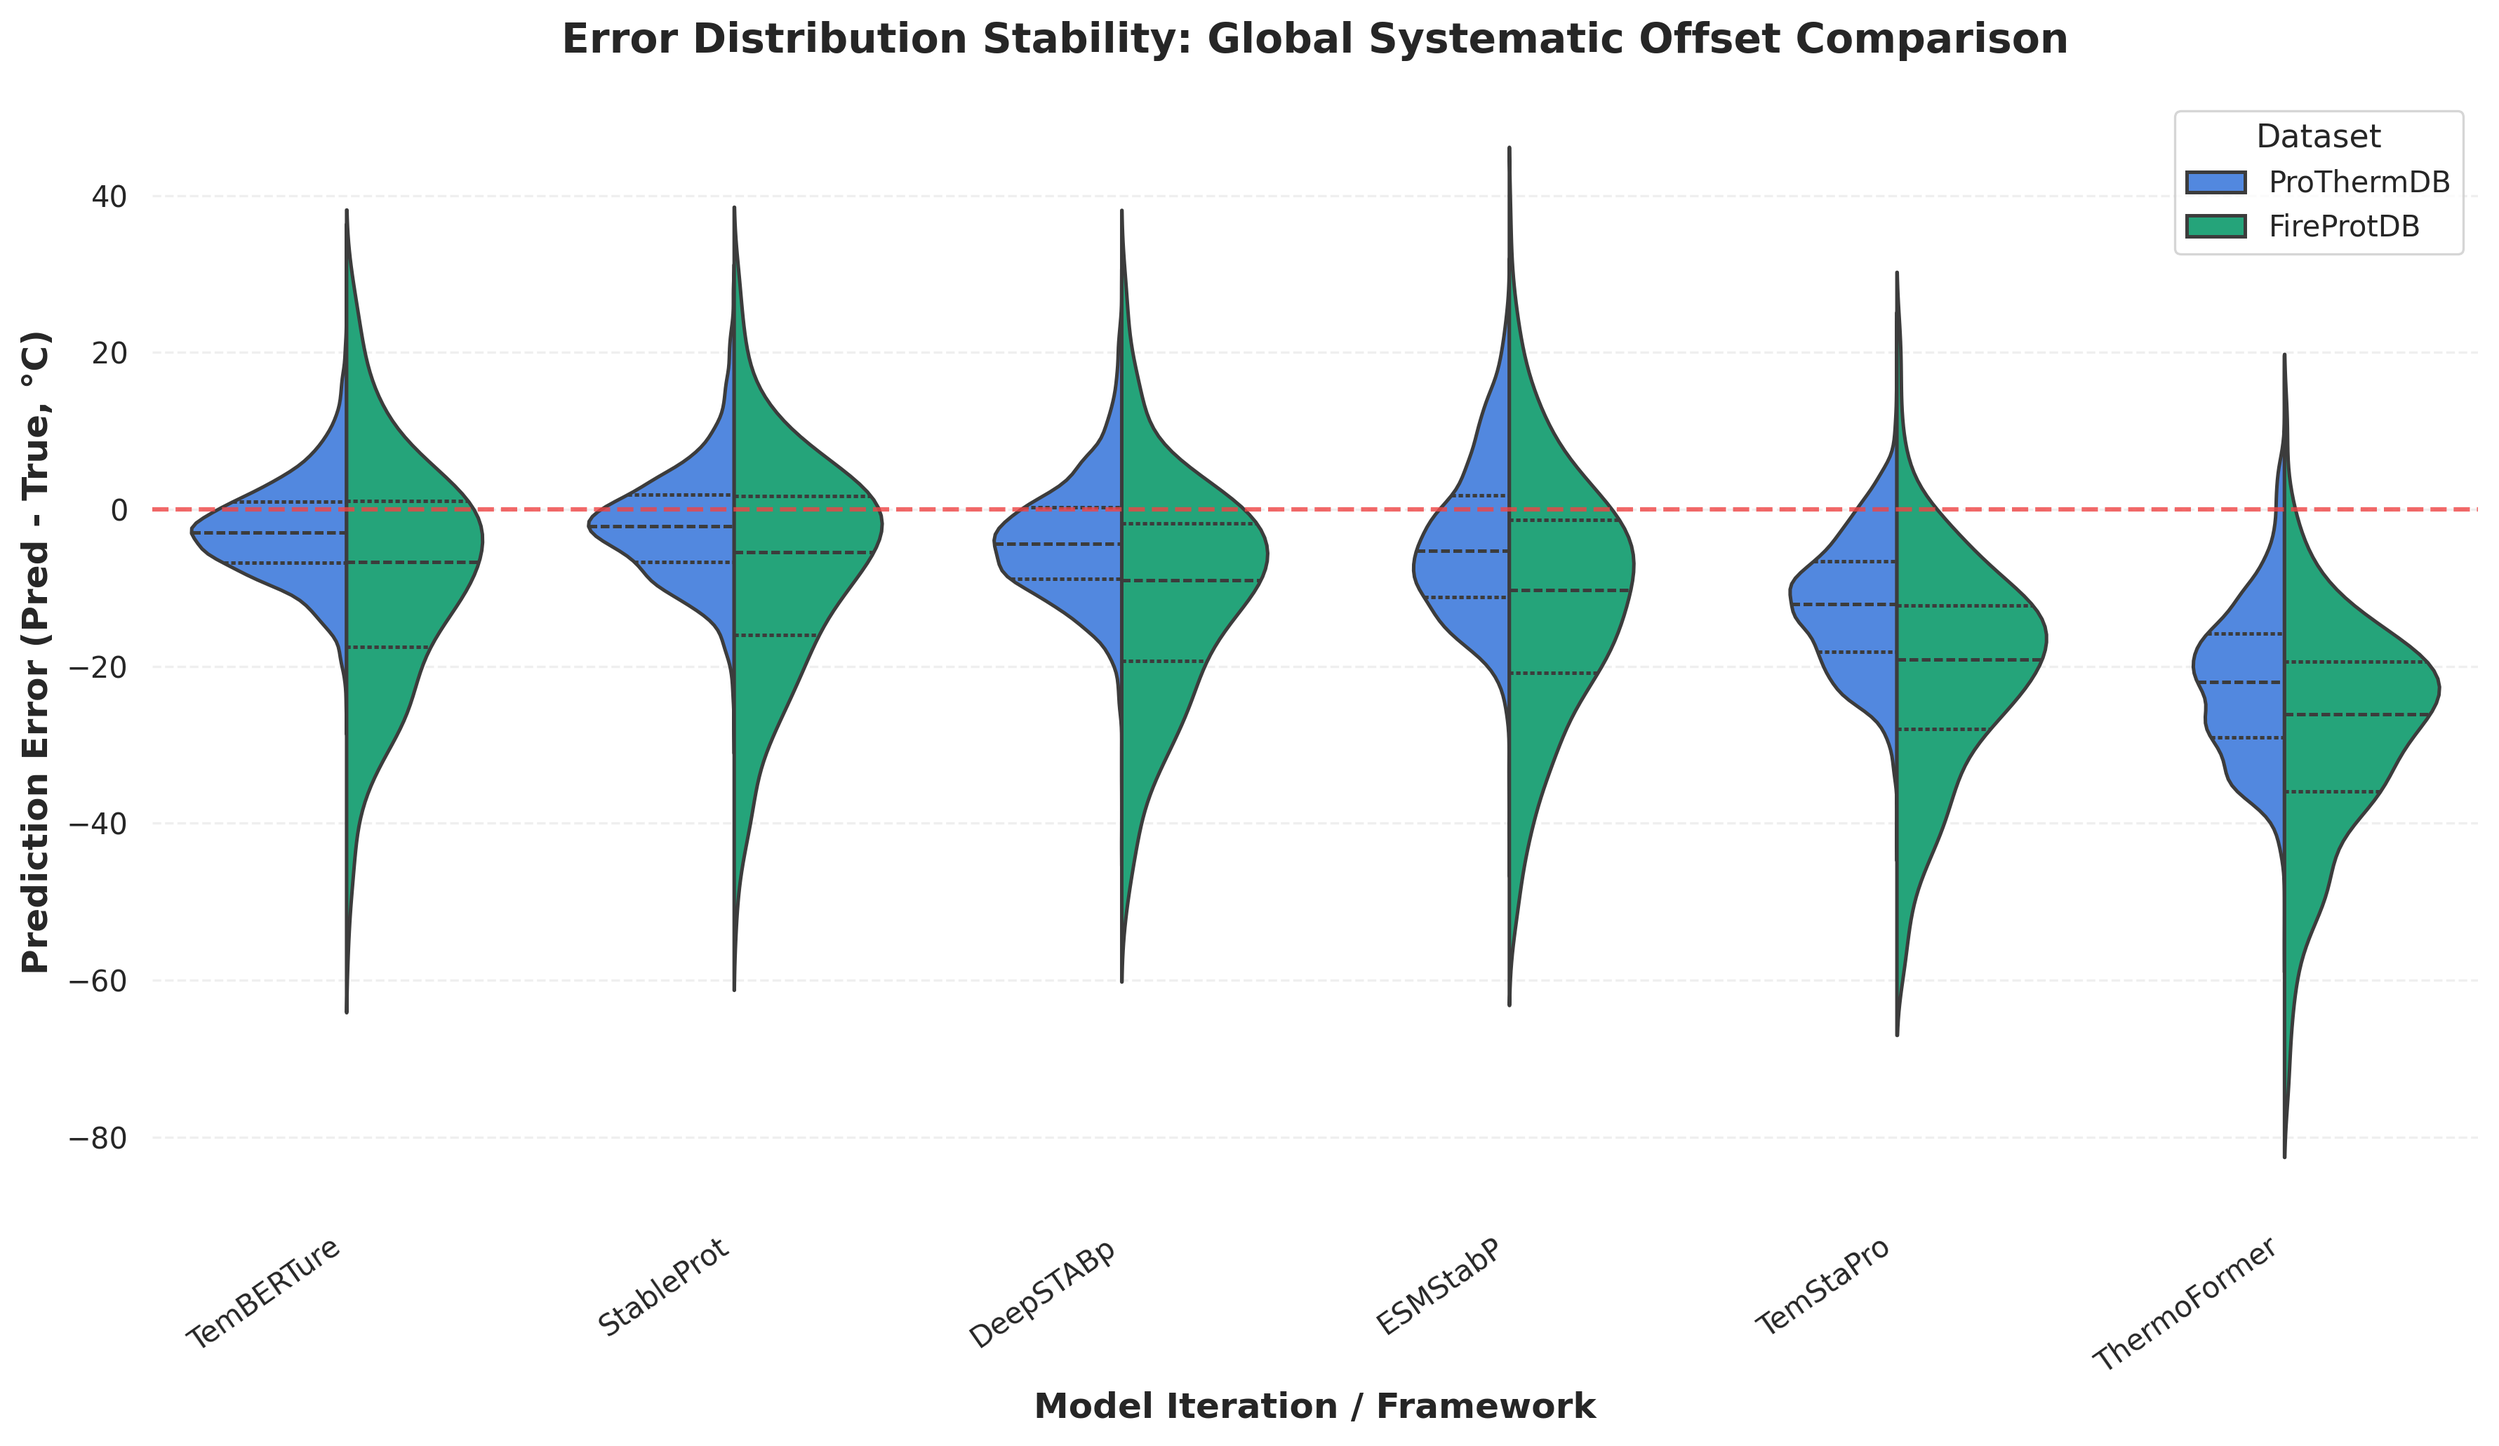
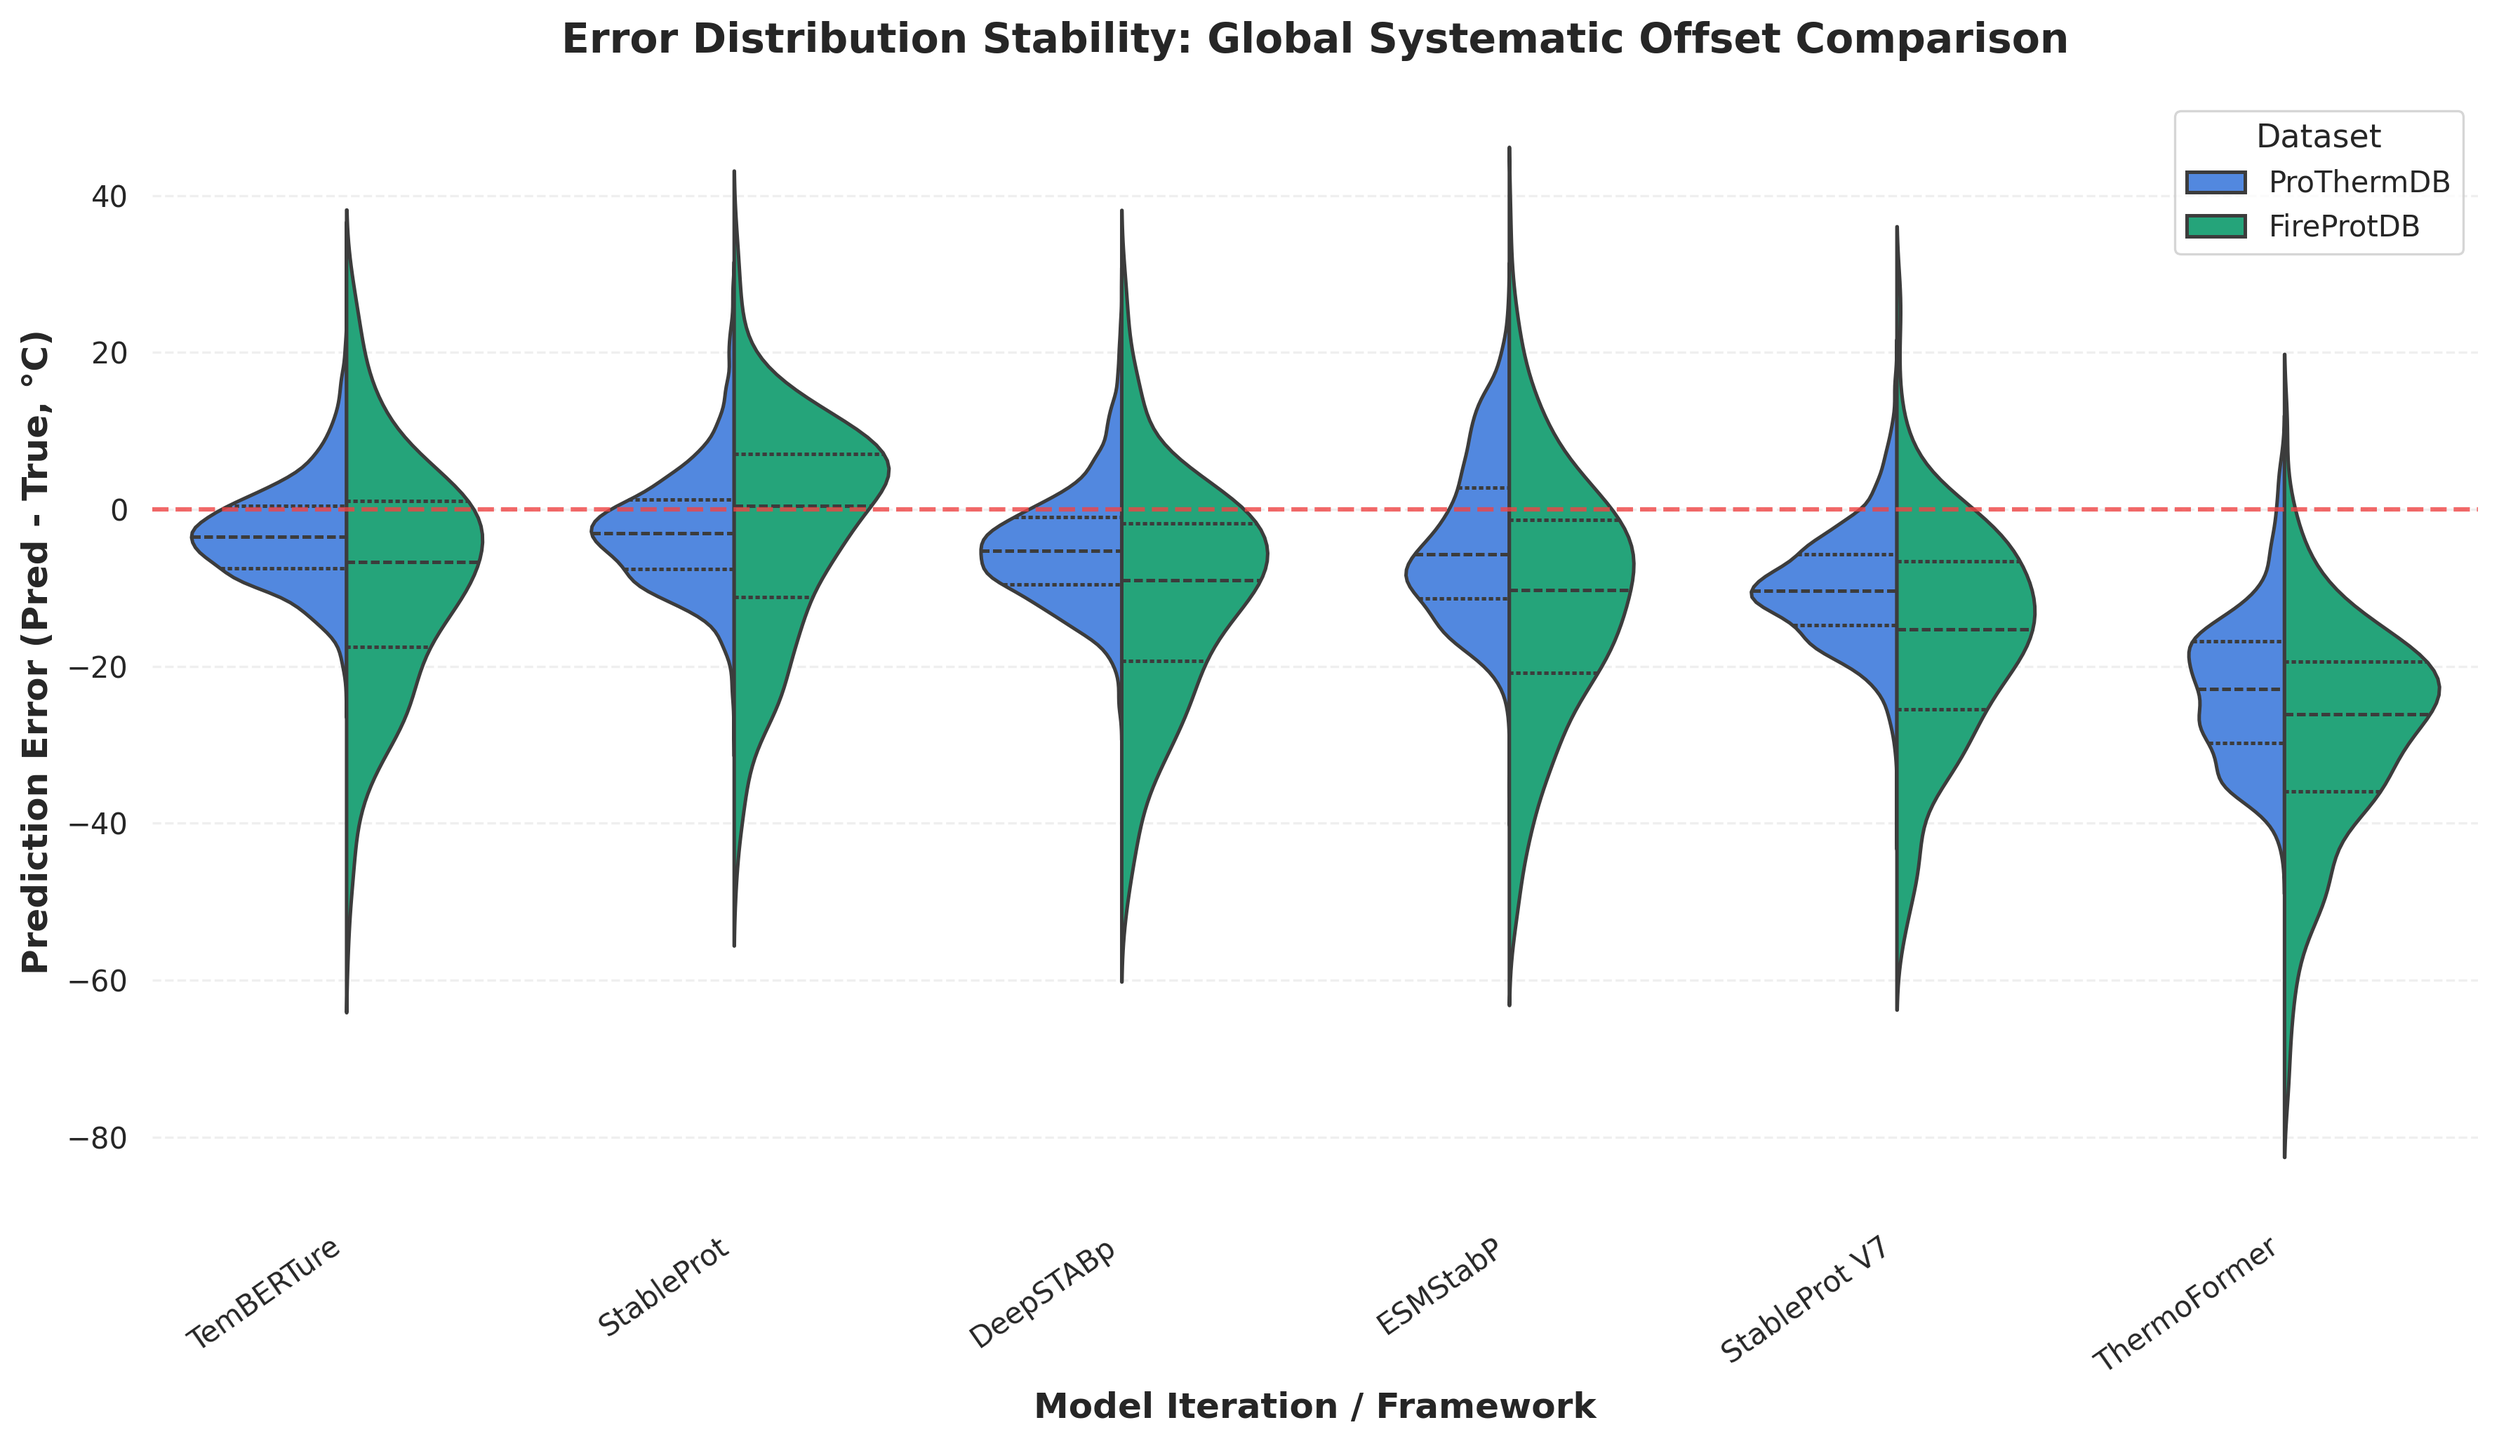
fix: resolve all critical audit bugs by implementing V7 ensemble inference, alternating task optimization, and corrected evaluation protocols.

diff --git a/experiments/src/eval/evaluate_all_models_protherm.py b/experiments/src/eval/evaluate_all_models_protherm.py
@@ -226,6 +226,8 @@ def main():
 
     protherm_seqs = []
     y_true_list = []
+    kept_indices = []
+    matching_idx = 0
     for record in SeqIO.parse(protherm_fasta, 'fasta'):
         seq = str(record.seq)
         uid = record.id.split('|')[0]
@@ -233,13 +235,15 @@ def main():
             if seq.upper() not in train_seqs_set:
                 protherm_seqs.append(seq)
                 y_true_list.append(protherm_dict[uid])
+                kept_indices.append(matching_idx)
+            matching_idx += 1
             
     y_true = np.array(y_true_list)
     print(f"Loaded {len(protherm_seqs)} ProThermDB validation sequences (decontaminated against V7 train).")
     
     # Load ProtT5 embeddings
     d_prott5 = torch.load(prott5_data_path, map_location='cpu', weights_only=False)
-    x_prott5 = d_prott5['test_tm']['embeddings'].to(device)
+    x_prott5 = d_prott5['test_tm']['embeddings'].to(device)[kept_indices]
     
     # Load and map ESM-2 embeddings
     print("Loading and mapping ESM-2 embeddings...")
@@ -419,7 +423,7 @@ def main():
     print("Evaluating V7 SaProt...")
     protherm_saprot_path = os.path.join(PROJECT_ROOT, "data/embeddings/saprot_1.3b/protherm_embeddings.pt")
     if os.path.exists(protherm_saprot_path):
-        x_saprot_v7 = torch.load(protherm_saprot_path, map_location=device, weights_only=False).float()
+        x_saprot_v7 = torch.load(protherm_saprot_path, map_location=device, weights_only=False).float()[kept_indices]
         print(f"  Loaded ProThermDB SaProt embeddings: {x_saprot_v7.shape}")
 
         # Import MultiHeadSaProtV7 dynamically
@@ -451,12 +455,12 @@ def main():
     if os.path.exists(baseline_path):
         print("Loading baseline predictions...")
         baselines = torch.load(baseline_path, map_location='cpu', weights_only=False)
-        results['TemBERTure'] = {'y_pred': baselines['protherm']['temberture'], 'type': 'Continuous Proxy'}
-        results['ESMStabP'] = {'y_pred': baselines['protherm']['esmstabp'], 'type': 'Continuous Proxy'}
+        results['TemBERTure'] = {'y_pred': np.array(baselines['protherm']['temberture'])[kept_indices], 'type': 'Continuous Proxy'}
+        results['ESMStabP'] = {'y_pred': np.array(baselines['protherm']['esmstabp'])[kept_indices], 'type': 'Continuous Proxy'}
         if 'deepstabp' in baselines['protherm']:
-            results['DeepSTABp'] = {'y_pred': baselines['protherm']['deepstabp'], 'type': 'Continuous Proxy'}
+            results['DeepSTABp'] = {'y_pred': np.array(baselines['protherm']['deepstabp'])[kept_indices], 'type': 'Continuous Proxy'}
         if 'thermoformer' in baselines['protherm']:
-            results['ThermoFormer'] = {'y_pred': baselines['protherm']['thermoformer'], 'type': 'Continuous Proxy'}
+            results['ThermoFormer'] = {'y_pred': np.array(baselines['protherm']['thermoformer'])[kept_indices], 'type': 'Continuous Proxy'}
     else:
         print("WARNING: Baseline predictions file missing.")
 

diff --git a/experiments/src/eval/plot_evaluation_results.py b/experiments/src/eval/plot_evaluation_results.py
@@ -43,7 +43,7 @@ def plot_mae_comparison(protherm_data, fireprot_data, out_dir):
     models = list(protherm_data['metrics'].keys())
     
     # Only show StableProt + external baselines
-    show_models = ['StableProt', 'TemStaPro', 'TemBERTure', 'ESMStabP', 'DeepSTABp', 'ThermoFormer']
+    show_models = ['StableProt', 'StableProt V7', 'TemStaPro', 'TemBERTure', 'ESMStabP', 'DeepSTABp', 'ThermoFormer']
     common_models = [m for m in show_models if m in protherm_data['metrics'] and m in fireprot_data['metrics']]
     
     # Sort models by ProThermDB MAE (ascending)
@@ -100,7 +100,7 @@ def plot_scatter_grids(data, dataset_name, out_dir):
     y_true = data['y_true']
     
     # Only show StableProt + external baselines
-    key_models = ['StableProt', 'TemStaPro', 'TemBERTure', 'ESMStabP', 'DeepSTABp', 'ThermoFormer']
+    key_models = ['StableProt', 'StableProt V7', 'TemStaPro', 'TemBERTure', 'ESMStabP', 'DeepSTABp', 'ThermoFormer']
     display_models = [m for m in key_models if m in predictions]
 
     
@@ -157,7 +157,7 @@ def plot_error_violins(protherm_data, fireprot_data, out_dir):
     Generate violin plots of error distributions.
     """
     # Only show StableProt + external baselines
-    show_models = ['StableProt', 'TemStaPro', 'TemBERTure', 'ESMStabP', 'DeepSTABp', 'ThermoFormer']
+    show_models = ['StableProt', 'StableProt V7', 'TemStaPro', 'TemBERTure', 'ESMStabP', 'DeepSTABp', 'ThermoFormer']
     common_models = [m for m in show_models if m in protherm_data['metrics'] and m in fireprot_data['metrics']]
     
     common_models = sorted(common_models, key=lambda m: protherm_data['metrics'][m]['mae'])

diff --git a/experiments/src/eval/evaluate_ogt.py b/experiments/src/eval/evaluate_ogt.py
@@ -46,7 +46,7 @@ def main():
     
     # 1. Load Baselines
     if BASELINE_FILE.exists():
-        baselines = torch.load(BASELINE_FILE, map_location='cpu')
+        baselines = torch.load(BASELINE_FILE, map_location='cpu', weights_only=False)
         for k, v in baselines.items():
             if k != 'y_true':
                 predictions[k] = v
@@ -76,7 +76,7 @@ def main():
             input_dim=1280, hidden1=CONFIG['hidden1'], hidden2=CONFIG['hidden2'],
             dropout1=CONFIG['dropout1'], dropout2=CONFIG['dropout2']
         ).to(device)
-        model.load_state_dict(torch.load(model_path, map_location=device))
+        model.load_state_dict(torch.load(model_path, map_location=device, weights_only=False))
         model.eval()
         
         seed_preds = []

diff --git a/experiments/src/eval/evaluate_v7_joint.py b/experiments/src/eval/evaluate_v7_joint.py
@@ -81,7 +81,7 @@ def compute_metrics(y_true, y_pred, threshold=60.0):
     }
 
 def evaluate_model(model_type, device):
-    seeds = [1, 2, 3]
+    seeds = [1, 2, 3, 4, 5]
     models = []
     
     if model_type == 'esm2':
@@ -94,7 +94,7 @@ def evaluate_model(model_type, device):
         key_name = 'V7 SaProt Joint'
         
     for s in seeds:
-        p = os.path.join(results_dir, f"seed{s}/model.pt")
+        p = os.path.join(results_dir, f"seed{s}/best_model.pt")
         if os.path.exists(p):
             model = MultiHeadSaProtV7(
                 input_dim=emb_dim,

diff --git a/paper/writeup/tables/temp_wise_fireprot.md b/paper/writeup/tables/temp_wise_fireprot.md
@@ -2,11 +2,11 @@
 
 | Bin | Range | Count | TemStaPro | StableProt | TemBERTure | ESMStabP | DeepSTABp | ThermoFormer |
 | --- | --- | --- | --- | --- | --- | --- | --- | --- |
-| 20-30 | (20, 30] | 4 | 16.05 | 27.19 | 26.57 | 21.30 | 26.01 | 7.24 |
-| 30-40 | (30, 40] | 6 | 5.87 | 17.95 | 16.52 | 10.20 | 14.36 | 11.61 |
-| 40-50 | (40, 50] | 52 | 7.68 | 5.74 | 6.78 | 4.93 | 5.11 | 17.49 |
-| 50-60 | (50, 60] | 109 | 15.03 | 4.50 | 5.20 | 8.30 | 5.89 | 23.98 |
-| 60-70 | (60, 70] | 59 | 23.92 | 10.94 | 11.79 | 15.86 | 14.07 | 33.47 |
-| 70-80 | (70, 80] | 45 | 30.28 | 17.97 | 19.57 | 22.58 | 21.86 | 36.84 |
-| 80-90 | (80, 90] | 27 | 39.17 | 27.48 | 27.46 | 30.80 | 30.06 | 45.06 |
-| 90-100 | (90, 100] | 18 | 38.06 | 27.74 | 29.91 | 33.92 | 30.66 | 35.10 |
+| 20-30 | (20, 30] | 4 | 16.05 | 30.36 | 26.57 | 21.30 | 26.01 | 7.24 |
+| 30-40 | (30, 40] | 6 | 5.87 | 19.90 | 16.52 | 10.20 | 14.36 | 11.61 |
+| 40-50 | (40, 50] | 52 | 7.68 | 10.58 | 6.78 | 4.93 | 5.11 | 17.49 |
+| 50-60 | (50, 60] | 109 | 15.03 | 5.11 | 5.20 | 8.30 | 5.89 | 23.98 |
+| 60-70 | (60, 70] | 59 | 23.92 | 4.87 | 11.79 | 15.86 | 14.07 | 33.47 |
+| 70-80 | (70, 80] | 45 | 30.28 | 13.57 | 19.57 | 22.58 | 21.86 | 36.84 |
+| 80-90 | (80, 90] | 27 | 39.17 | 24.16 | 27.46 | 30.80 | 30.06 | 45.06 |
+| 90-100 | (90, 100] | 18 | 38.06 | 26.48 | 29.91 | 33.92 | 30.66 | 35.10 |
